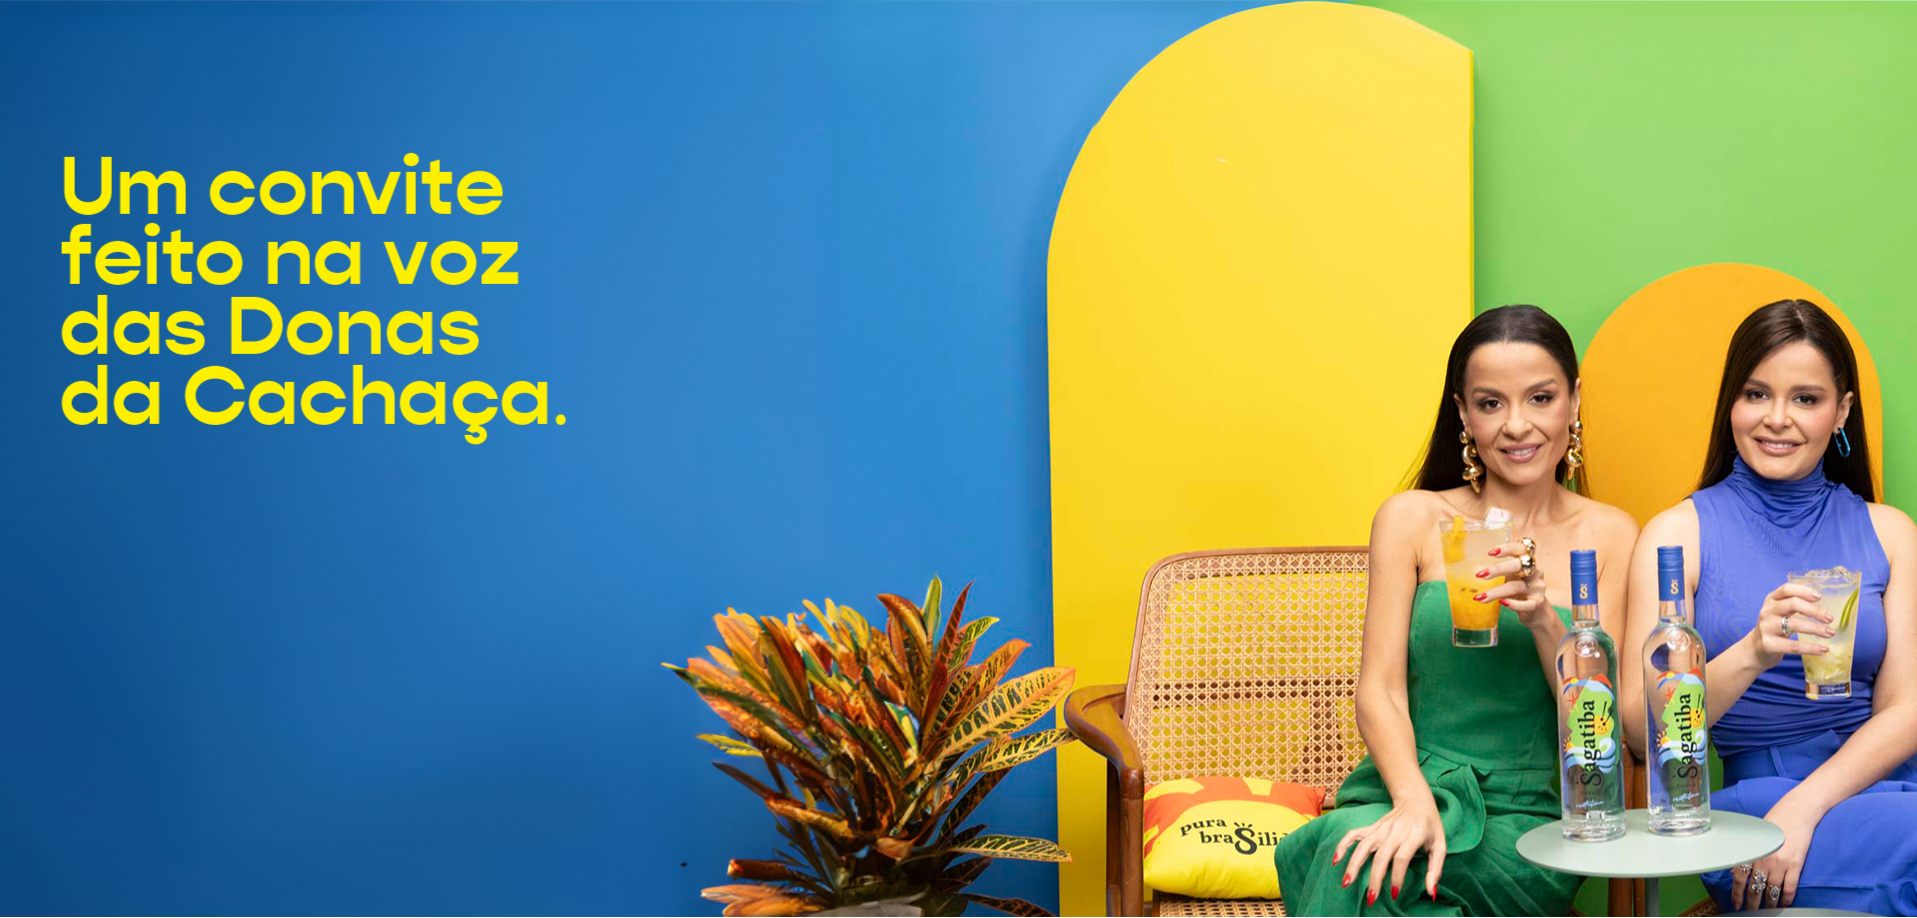
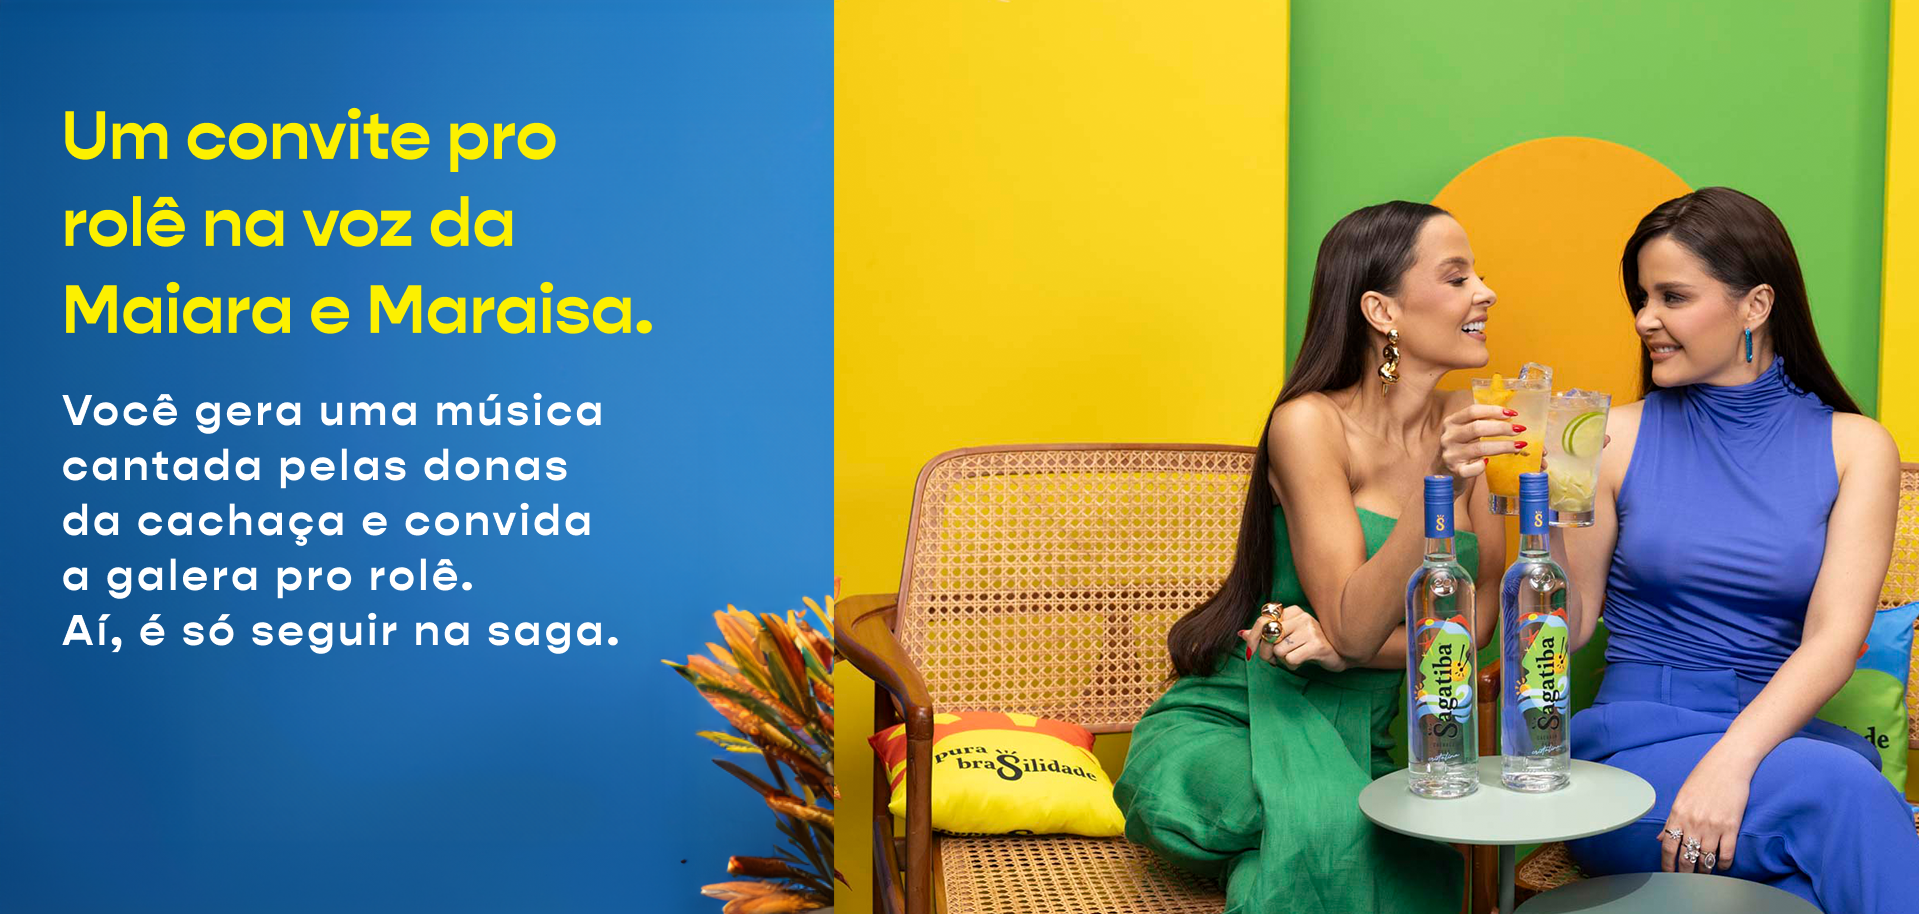
update: change invite_options

diff --git a/src/pages/home/index.tsx b/src/pages/home/index.tsx
@@ -1,13 +1,6 @@
 import { Container } from "./styles";
-import BannerOne from "../../assets/banner-one.png";
-import Invite from "../../assets/invite.png";
 import BannerTwo from "../../assets/banner-two.png";
 import Sagalover from "../../assets/nome_do_sagalover.png";
-import Balde from "../../assets/balde_background.png";
-
-import WantInvite from "../../assets/quero_convidar.png";
-
-import Sun from "../../assets/sol_lua.png";
 import SunMountain from "../../assets/sol-montanha.png";
 import GoingToDrink from "../../assets/vai_beber_qual_dia.png";
 import Lemon from "../../assets/sagatiba_image_components/LIMAO.png";
@@ -15,29 +8,32 @@ import YellowBk from "../../assets/yellow-bk.png";
 import MusicBackground from "../../assets/gerar_musica_background.png";
 import MusicIcon from "../../assets/music-icon.png";
 
-import { tagOptions, weekDays } from "./helper";
+import { weekDays } from "./helper";
 import { WeekBtn } from "./components/WeekBtn";
 import { useState } from "react";
+import { Banner } from "./components/banner";
+import { InviteOptions } from "./components/invite_options";
 
 export const Home = () => {
-  const [inviteFor, setInviteFor] = useState<number>();
+  // const [inviteFor, setInviteFor] = useState<number>();
   const [weekDaysSelected, setWeekDaysSelected] = useState<string>();
 
   const addWeekDays = (day: string) => {
     setWeekDaysSelected(day);
   };
 
-  const addInviteFor = (id: number) => setInviteFor(id);
+  // const addInviteFor = (id: number) => setInviteFor(id);
 
   return (
     <Container>
-      <main>
+      {/* <main>
         <div className="content">
           <img src={BannerOne} alt="banner" className="banner" />
 
           <img src={Invite} alt="banner" className="invite" />
         </div>
-      </main>
+      </main> */}
+      <Banner/>
 
       <section className="banner-two">
         <div className="content">
@@ -51,7 +47,7 @@ export const Home = () => {
         </div>
       </section>
 
-      <section className="banner-three">
+      {/* <section className="banner-three">
         <div className="content">
           <img src={Balde} alt="" className="banner" />
         </div>
@@ -77,7 +73,9 @@ export const Home = () => {
             ))}
           </div>
         </div>
-      </section>
+      </section> */}
+
+      <InviteOptions/>
 
       <section className="week-days">
         <img src={SunMountain} alt="" />

diff --git a/src/pages/home/components/invite_options/index.tsx b/src/pages/home/components/invite_options/index.tsx
@@ -1,0 +1,60 @@
+import { useState } from "react";
+import Balde from "../../../../assets/balde_background.png";
+import Sun from "../../../../assets/sol_lua.png";
+import { tagOptions } from "../../../../pages/home/helper";
+import { Container } from "../../styles";
+import { InviteForContainer } from "./style";
+
+
+export const InviteOptions = () => {
+
+  const [inviteFor, setInviteFor] = useState<number>();
+
+  const addInviteFor = (id: number) => setInviteFor(id);
+
+
+    return (
+        <Container>
+         <InviteForContainer> 
+        <section className="banner-three">
+          <div className="content">
+            <img src={Balde} alt="" className="banner" />
+          </div>
+        </section>
+
+      <section className="invite">
+        <img src={Sun} alt="" className="sun" />
+
+        <div className="content">
+          {/* <img src={WantInvite} alt="" /> */}
+
+          <div className="invite_options_text_blue">
+            <h2>Conta pra gente:</h2>
+            <h2>qual o convite  do rolê?</h2>
+          </div>
+
+          <div className="invite_options_text_black">
+            <h2>Escolha uma das</h2>
+            <h2>alternativas abaixo.</h2>
+          </div>
+
+          <div className="option-check">
+            {tagOptions.map(({ option, tagClass, id }) => (
+              <button
+                className={`button ${tagClass} ${
+                  inviteFor === id ? "selected" : ""
+                }`}
+                key={option}
+                onClick={() => addInviteFor(id)}
+              >
+                {option}{" "}
+              </button>
+            ))}
+          </div>
+        </div>
+      </section>
+
+      </InviteForContainer>
+      </Container>
+    );
+  };

diff --git a/src/pages/home/styles.ts b/src/pages/home/styles.ts
@@ -93,7 +93,7 @@ export const Container = styled.div`
     grid-template-columns: 154px 1fr 154px;
     width: 100%;
     position: relative;
-    background: #73bf44;
+    background: #ffdd2e;
 
     .sun {
       position: absolute;
@@ -121,32 +121,49 @@ export const Container = styled.div`
 
         .button {
           background: black;
-          font-size: 5.43rem;
+          font-size: 5rem;
           border: none;
           padding: 17px 0;
           border-radius: 41px;
           cursor: pointer;
-          opacity: 50%;
 
           &.selected {
-            opacity: 100%;
+            outline: 6px solid #fff;
           }
 
-          &.yellow {
+          &:nth-child(1) {
             color: #f8e711;
-            grid-column: 1/5;
+            grid-column: 1 / 5;
           }
-          &.orange {
+
+          &:nth-child(2) {
             color: #ff9900;
-            grid-column: 5/13;
+            grid-column: 5 / 13;
           }
-          &.blue {
+
+          &:nth-child(3) {
             color: #0091d0;
-            grid-column: 1/8;
+            grid-column: 1 / 7;
           }
-          &.green {
+
+          &:nth-child(4) {
             color: #73bf44;
-            grid-column: 8/13;
+            grid-column: 7 / 13;
+          }
+
+          &:nth-child(5) {
+            color: #73bf44;
+            grid-column: 1 / 6;
+          }
+
+          &:nth-child(6) {
+            color: #ff9900;
+            grid-column: 6 / 9;
+          }
+
+          &:nth-child(7) {
+            color: #0091d0;
+            grid-column: 9 / 13;
           }
         }
       }

diff --git a/src/pages/home/helper.ts b/src/pages/home/helper.ts
@@ -5,7 +5,7 @@ export const tagOptions = [
     tagClass: "yellow",
   },
   {
-    option: "BEBER EM CASA",
+    option: "ROLÊ EM CASA",
     id: 2,
     tagClass: "orange",
   },
@@ -17,6 +17,22 @@ export const tagOptions = [
   {
     option: "SEXTOU",
     id: 4,
+    tagClass: "green",
+  },
+  {
+    option: "ANIVERSÁRIO",
+    id: 5,
+    tagClass: "orange",
+  },
+
+  {
+    option: "FESTA",
+    id: 6,
+    tagClass: "blue",
+  },
+  {
+    option: "SHOW",
+    id: 7,
     tagClass: "green",
   },
 ];

diff --git a/src/pages/home/components/banner/index.tsx b/src/pages/home/components/banner/index.tsx
@@ -1,8 +1,14 @@
+import BannerOne from "../../../../assets/banner-one.png";
+import Invite from "../../../../assets/invite.png";
 
 export const Banner = () => {
   return (
-    <div >
- asuhuashhasuasuha     
+    <main>
+    <div className="content">
+      <img src={BannerOne} alt="banner" className="banner" />
+
+      <img src={Invite} alt="banner" className="invite" />
     </div>
+  </main>
   );
 };

diff --git a/src/pages/home/components/invite_options/style.ts b/src/pages/home/components/invite_options/style.ts
@@ -1,0 +1,15 @@
+import styled from "styled-components";
+
+export const InviteForContainer = styled.div`
+  .invite {
+    .invite_options_text_blue {
+      font-size: 3rem;
+      color: #0091d0;
+    }
+
+    .invite_options_text_black {
+      font-size: 3rem;
+      color: #000;
+    }
+  }
+`;
